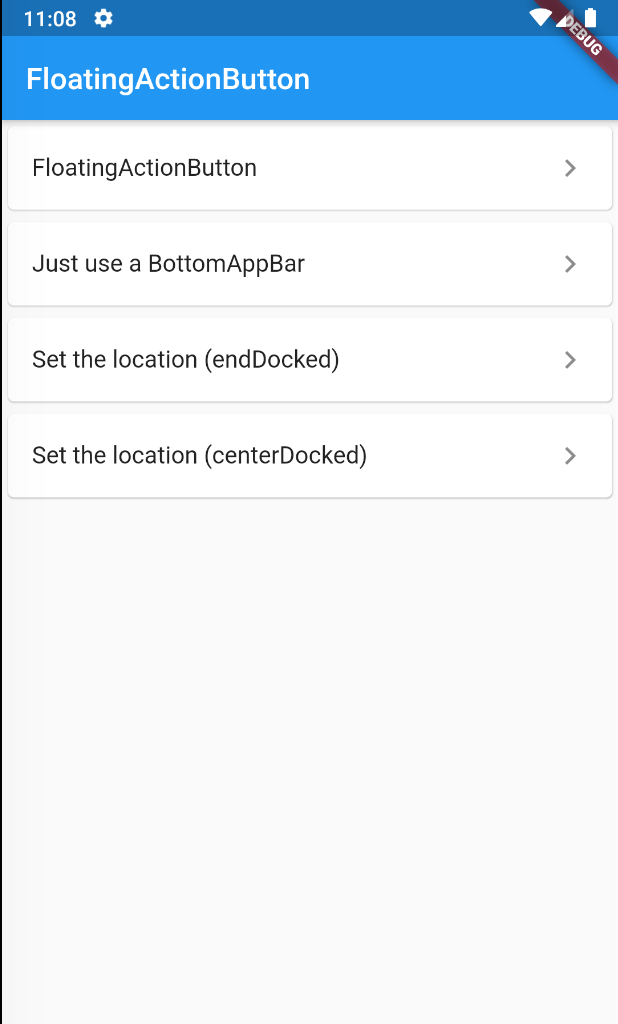
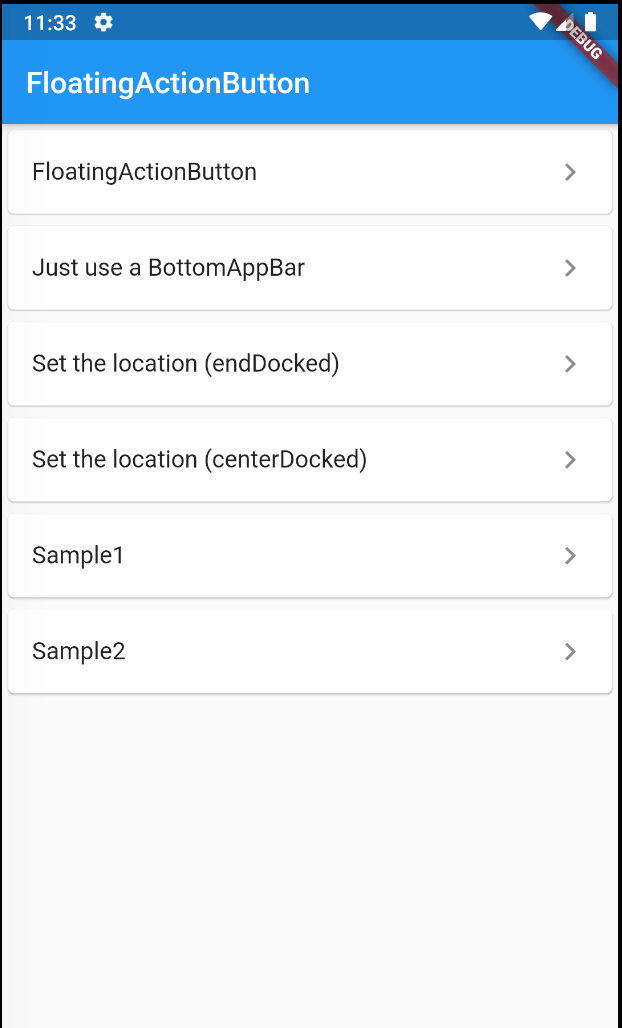
[FloatingActionButton] Edit README

diff --git a/floating_action_button/lib/main.dart b/floating_action_button/lib/main.dart
@@ -13,6 +13,8 @@ class MyApp extends StatelessWidget {
         '/fab2': (BuildContext context) => FAB2(),
         '/fab3': (BuildContext context) => FAB3(),
         '/fab4': (BuildContext context) => FAB4(),
+        '/sample1': (BuildContext context) => Sample1(),
+        '/sample2': (BuildContext context) => Sample2(),
       },
     );
   }
@@ -31,6 +33,8 @@ class MyHomePage extends StatelessWidget {
           _buildList(context, 'Just use a BottomAppBar', '/fab2'),
           _buildList(context, 'Set the location (endDocked)', '/fab3'),
           _buildList(context, 'Set the location (centerDocked)', '/fab4'),
+          _buildList(context, 'Sample1', '/sample1'),
+          _buildList(context, 'Sample2', '/sample2'),
         ],
       ),
     );
@@ -107,6 +111,47 @@ class FAB4 extends StatelessWidget {
         child: Container(height: 50.0),
       ),
       floatingActionButtonLocation: FloatingActionButtonLocation.centerDocked,
+    );
+  }
+}
+
+class Sample1 extends StatelessWidget {
+  @override
+  Widget build(BuildContext context) {
+    return Scaffold(
+      appBar: AppBar(
+        title: Text('Floating Action Button Sample'),
+      ),
+      body: Center(child: Text('Press the button below!')),
+      floatingActionButton: FloatingActionButton(
+        onPressed: () {
+          // Add your onPressed code here!
+        },
+        child: Icon(Icons.thumb_up),
+        backgroundColor: Colors.pink,
+      ),
+    );
+  }
+}
+
+class Sample2 extends StatelessWidget {
+  @override
+  Widget build(BuildContext context) {
+    return Scaffold(
+      appBar: AppBar(
+        title: Text('Floating Action Button Sample'),
+      ),
+      body: Center(
+        child: Text('Press the extended button below!'),
+      ),
+      floatingActionButton: FloatingActionButton.extended(
+        onPressed: () {
+          // Add your onPressed code here!
+        },
+        label: Text('Approve'),
+        icon: Icon(Icons.thumb_up),
+        backgroundColor: Colors.pink,
+      ),
     );
   }
 }

diff --git a/floating_action_button/README.md b/floating_action_button/README.md
@@ -1,21 +1,26 @@
 # floating_action_button
 
+[FloatingActionButton class](https://api.flutter.dev/flutter/material/FloatingActionButton-class.html)
+
 ## Preview
 
+Menu  
 <img src="./screenshots/Menu.png" height="400" alt="Screenshot"/>
 
-### FAB
-
+FAB  
 <img src="./screenshots/FAB.png" height="400" alt="Screenshot"/>
 
-### BottomAppBar
-
+BottomAppBar  
 <img src="./screenshots/BottomAppBar.png" height="400" alt="Screenshot"/>
 
-### Set the location (endDocked)
-
+Set the location (endDocked)  
 <img src="./screenshots/endDocked.png" height="400" alt="Screenshot"/>
 
-### Set the location (centerDocked)
-
+Set the location (centerDocked)  
 <img src="./screenshots/centerDocked.png" height="400" alt="Screenshot"/>
+
+Sample1  
+<img src="./screenshots/Sample1.png" height="400" alt="Screenshot"/>
+
+Sample2  
+<img src="./screenshots/Sample2.png" height="400" alt="Screenshot"/>
